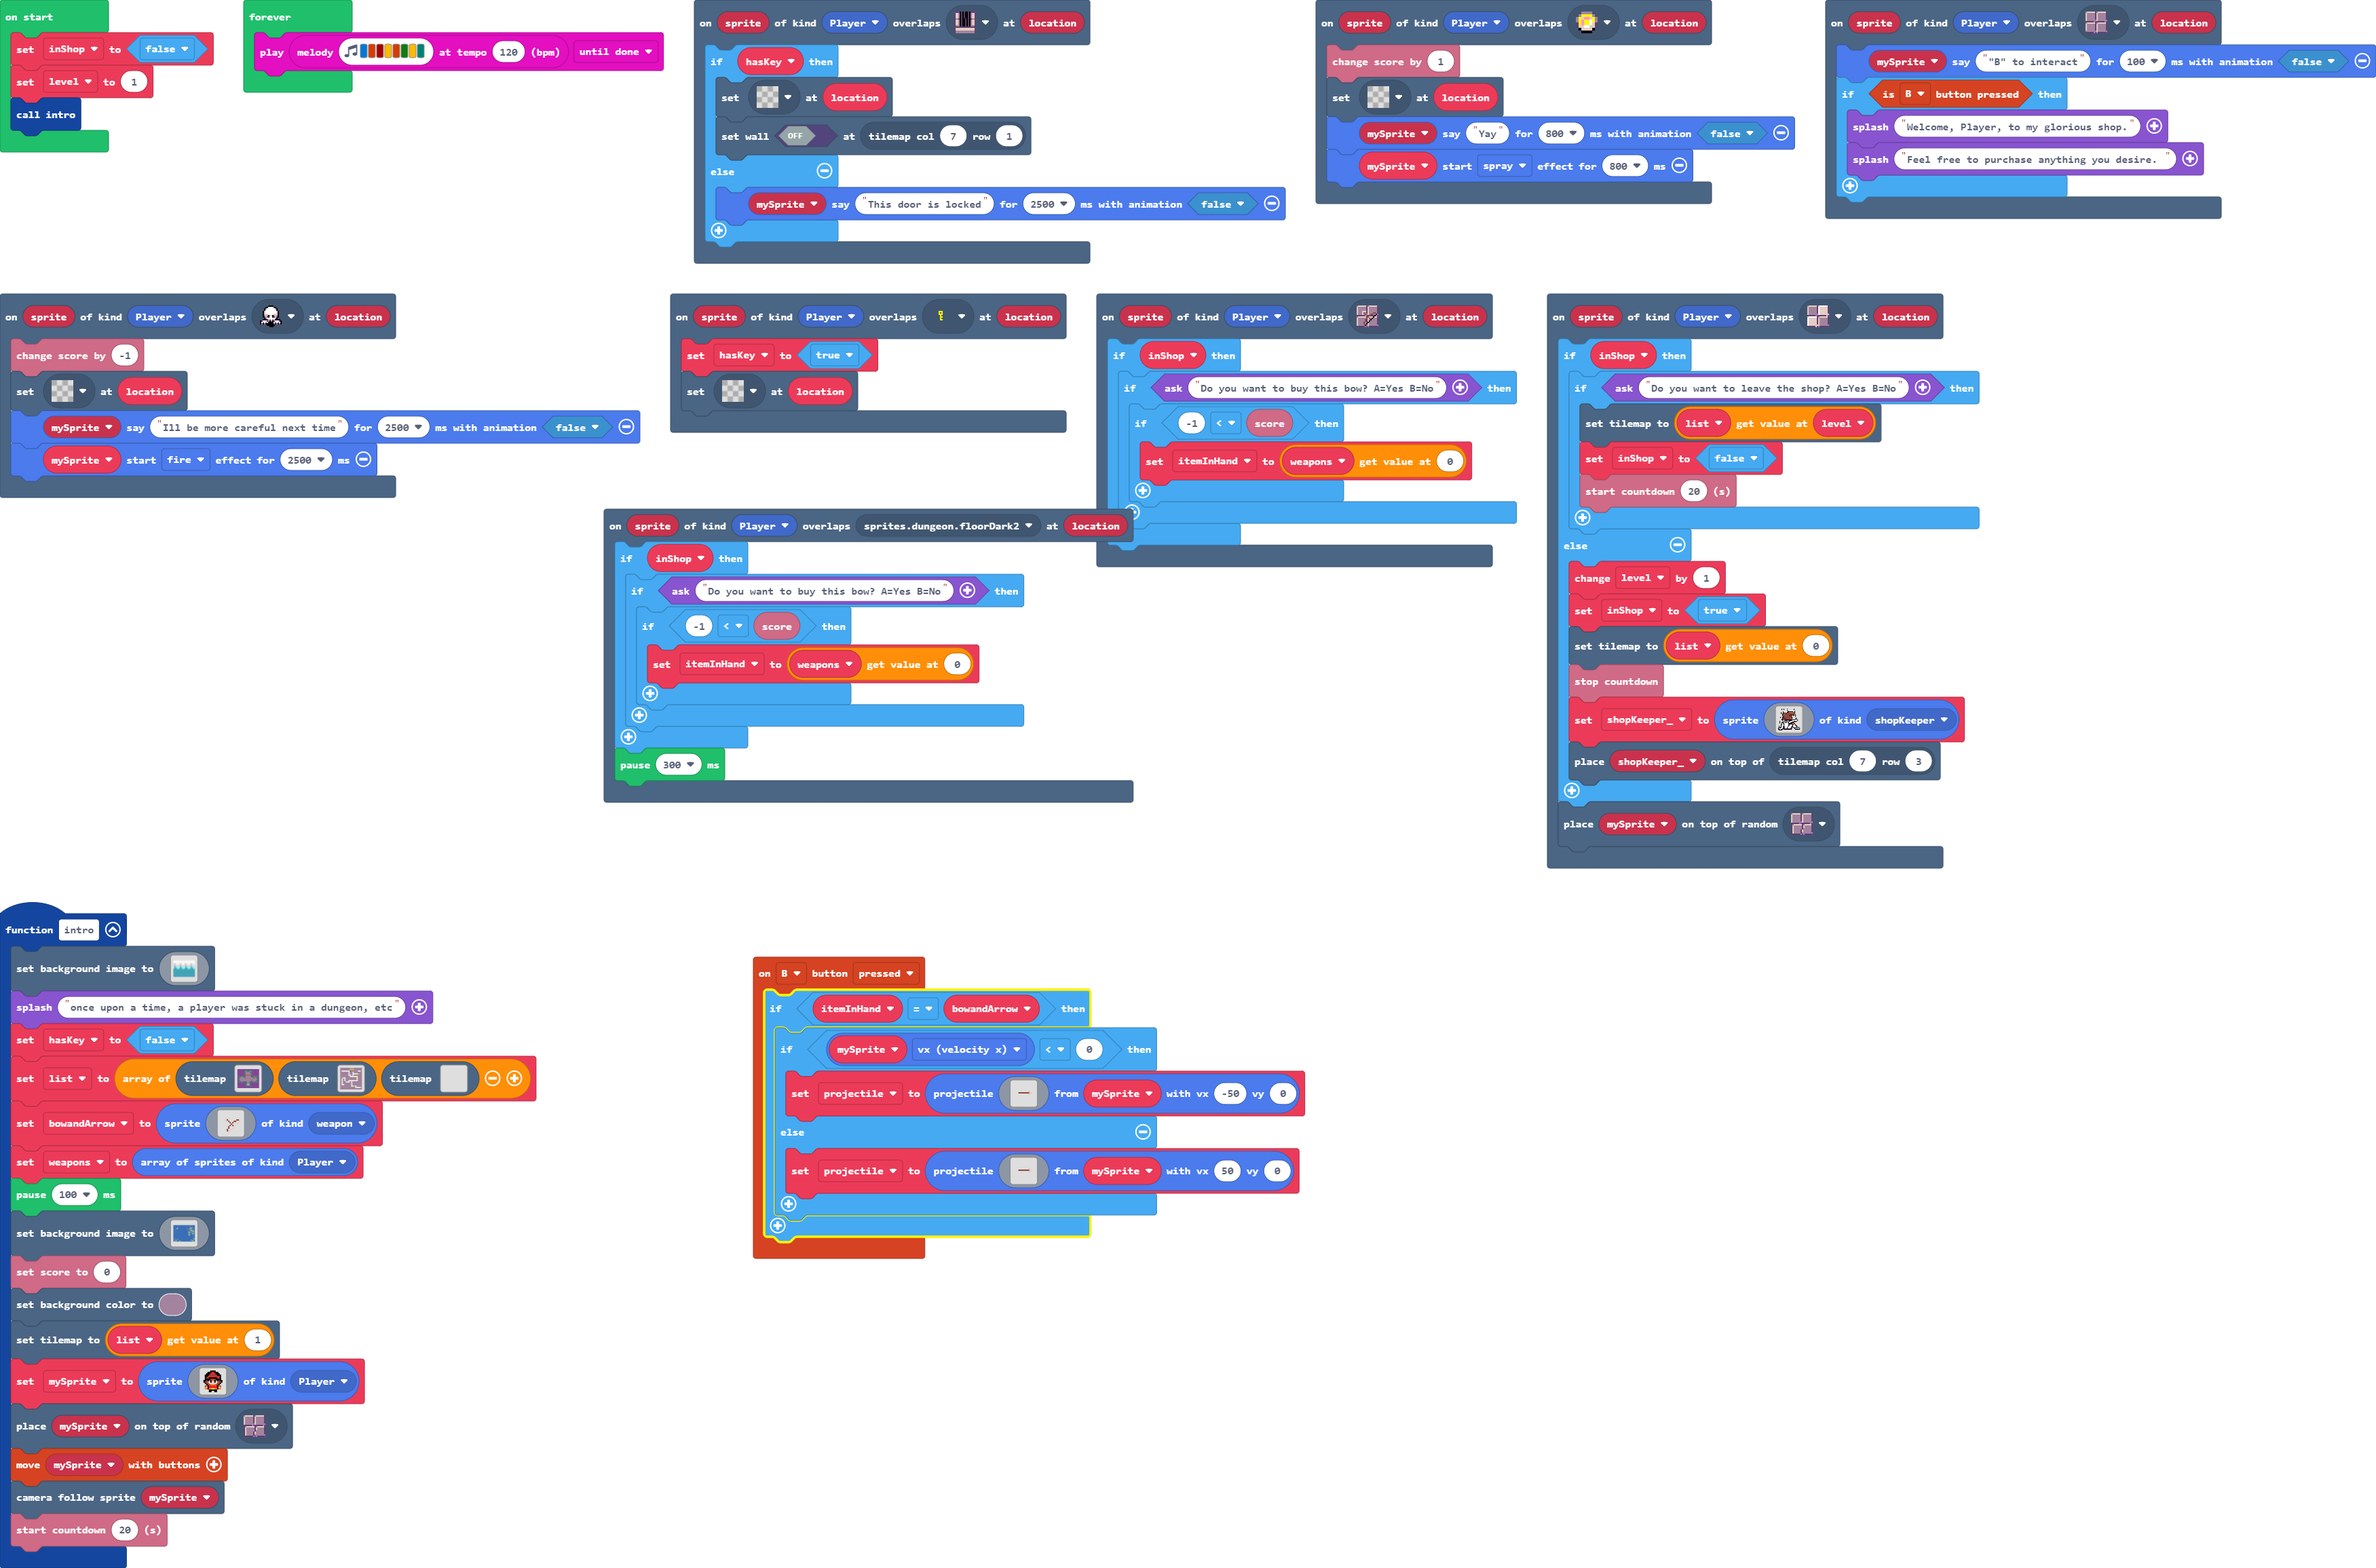
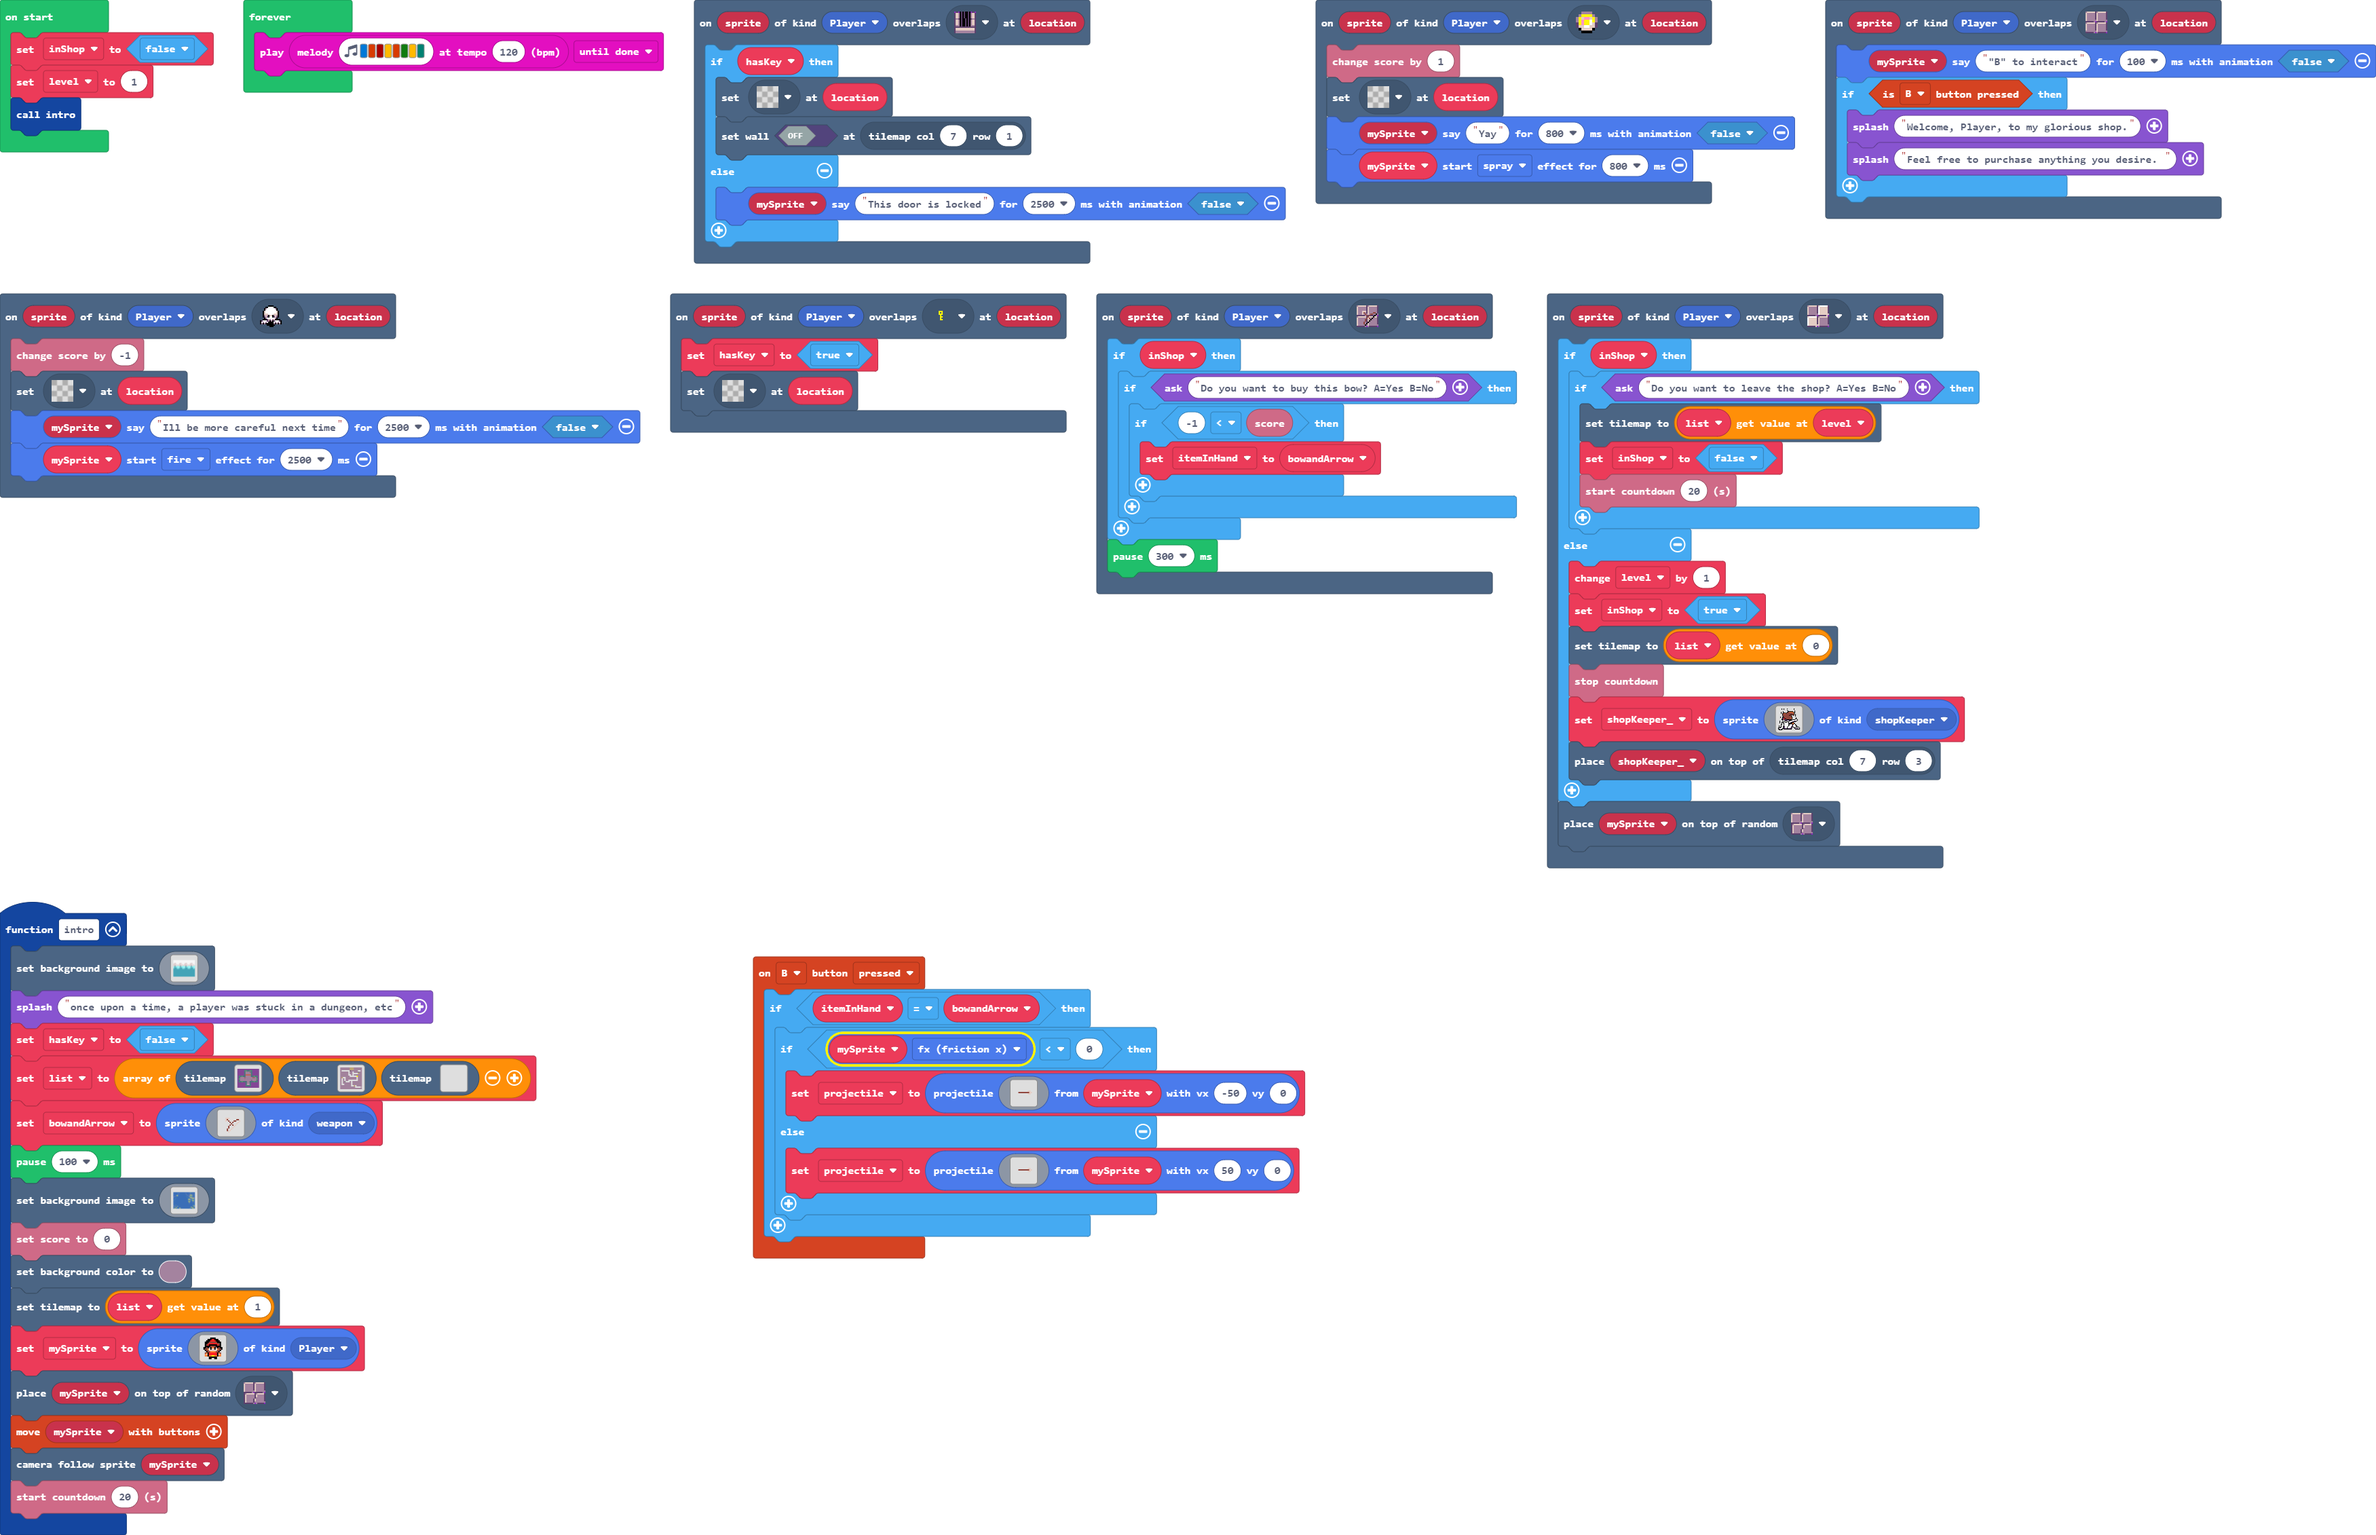
Update main.blocks, main.ts

diff --git a/main.ts b/main.ts
@@ -14,7 +14,7 @@ scene.onOverlapTile(SpriteKind.Player, assets.tile`myTile1`, function (sprite, l
 })
 controller.B.onEvent(ControllerButtonEvent.Pressed, function () {
     if (itemInHand == bowandArrow) {
-        if (mySprite.vx < 0) {
+        if (mySprite.fx < 0) {
             projectile = sprites.createProjectileFromSprite(img`
                 . . . . . . . . . . . . . . . . 
                 . . . . . . . . . . . . . . . . 
@@ -205,7 +205,6 @@ function intro () {
         . . . . . . d . . . . . . . . . 
         . . . . . . . . . . . . . . . . 
         `, SpriteKind.weapon)
-    weapons = sprites.allOfKind(SpriteKind.Player)
     pause(100)
     scene.setBackgroundImage(img`
[1 lines of base64/hex data omitted]
@@ -367,10 +366,11 @@ scene.onOverlapTile(SpriteKind.Player, assets.tile`myTile8`, function (sprite, l
     if (inShop) {
         if (game.ask("Do you want to buy this bow? A=Yes B=No")) {
             if (-1 < info.score()) {
-                itemInHand = weapons[0]
+                itemInHand = bowandArrow
             }
         }
     }
+    pause(300)
 })
 scene.onOverlapTile(SpriteKind.Player, assets.tile`myTile2`, function (sprite, location) {
     mySprite.sayText("\"B\" to interact", 100, false)
@@ -378,16 +378,6 @@ scene.onOverlapTile(SpriteKind.Player, assets.tile`myTile2`, function (sprite, l
         game.splash("Welcome, Player, to my glorious shop.")
         game.splash("Feel free to purchase anything you desire. ")
     }
-})
-scene.onOverlapTile(SpriteKind.Player, sprites.dungeon.floorDark2, function (sprite, location) {
-    if (inShop) {
-        if (game.ask("Do you want to buy this bow? A=Yes B=No")) {
-            if (-1 < info.score()) {
-                itemInHand = weapons[0]
-            }
-        }
-    }
-    pause(300)
 })
 scene.onOverlapTile(SpriteKind.Player, sprites.dungeon.floorMixed, function (sprite, location) {
     if (inShop) {
@@ -440,7 +430,6 @@ scene.onOverlapTile(SpriteKind.Player, sprites.dungeon.floorMixed, function (spr
     tiles.placeOnRandomTile(mySprite, sprites.dungeon.floorDark4)
 })
 let shopKeeper_: Sprite = null
-let weapons: Sprite[] = []
 let list: tiles.TileMapData[] = []
 let projectile: Sprite = null
 let bowandArrow: Sprite = null
